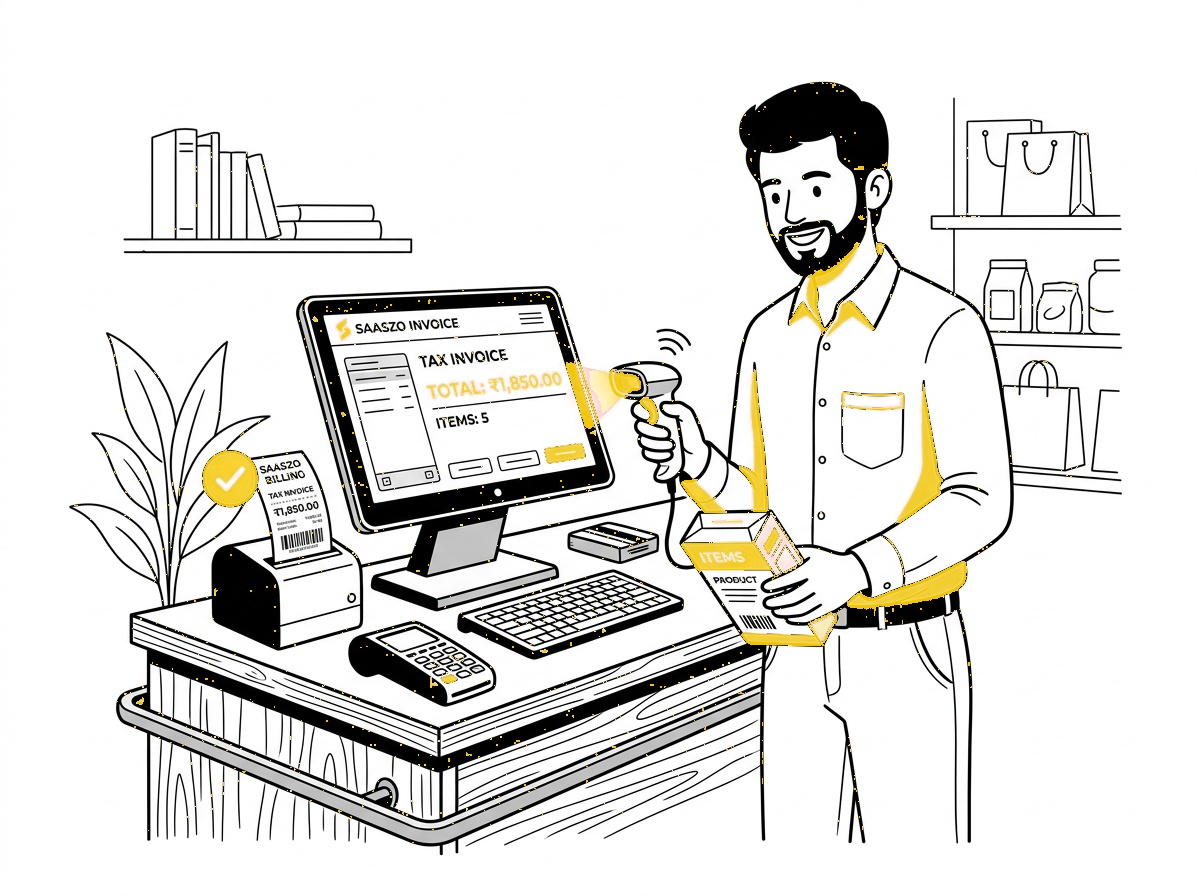
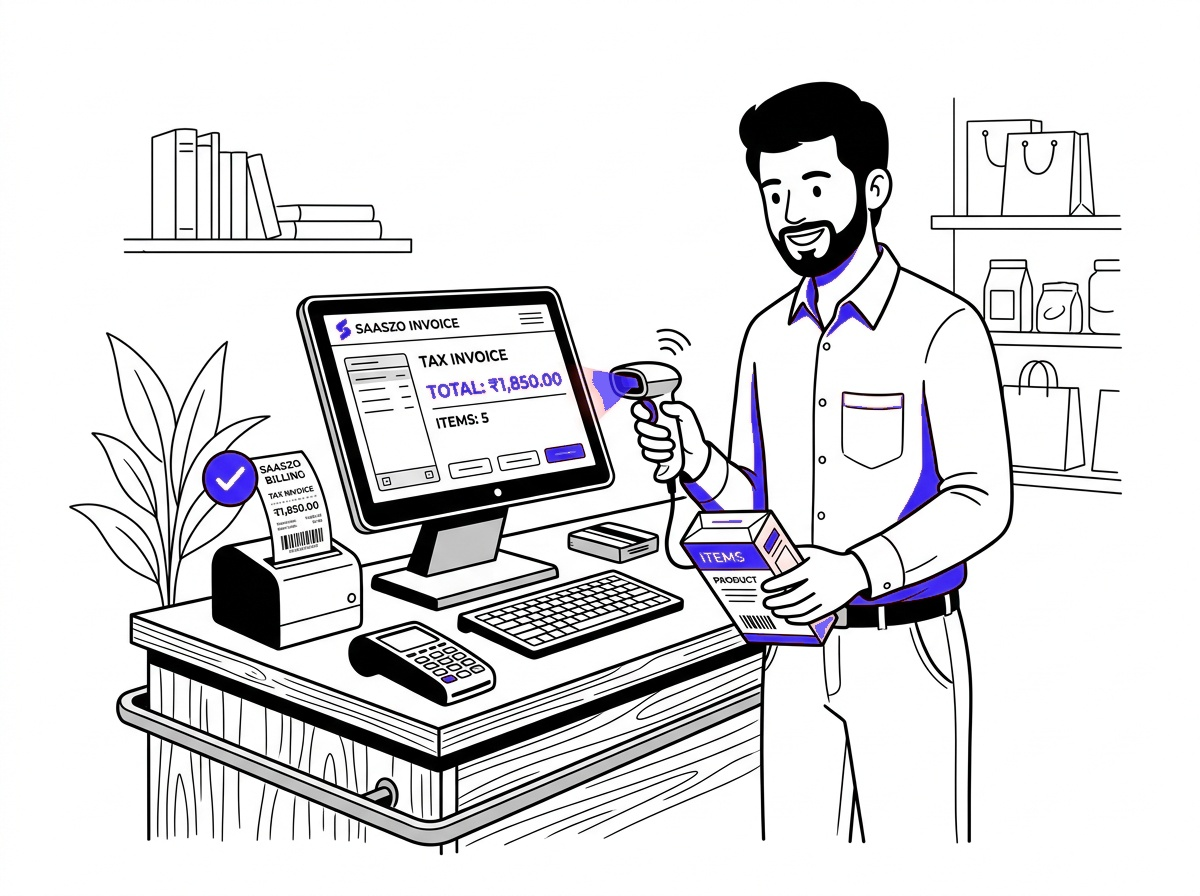
style(home): apply SaaSzo signature electric indigo #6451f1 theme and line art illustrations

diff --git a/apps/home/src/components/BookDemoSection.tsx b/apps/home/src/components/BookDemoSection.tsx
@@ -58,7 +58,7 @@ export function BookDemoSection() {
                 <div className="grid grid-cols-1 sm:grid-cols-2 gap-4">
                   <div>
                     <label className="block text-xs font-bold text-slate-700 mb-1.5">
-                      Name<span className="text-amber-500">*</span>
+                      Name<span className="text-[#6451f1]">*</span>
                     </label>
                     <input
                       type="text"
@@ -66,13 +66,13 @@ export function BookDemoSection() {
                       placeholder="e.g. Rahul Sharma"
                       value={formData.name}
                       onChange={(e) => setFormData({ ...formData, name: e.target.value })}
-                      className="w-full px-4 py-3 rounded-xl bg-white border border-slate-200 text-sm text-slate-900 placeholder:text-slate-400 focus:outline-none focus:ring-2 focus:ring-yellow-400 focus:border-yellow-400 shadow-xs"
+                      className="w-full px-4 py-3 rounded-xl bg-white border border-slate-200 text-sm text-slate-900 placeholder:text-slate-400 focus:outline-none focus:ring-2 focus:ring-[#6451f1] focus:border-[#6451f1] shadow-xs"
                     />
                   </div>
 
                   <div>
                     <label className="block text-xs font-bold text-slate-700 mb-1.5">
-                      Email<span className="text-amber-500">*</span>
+                      Email<span className="text-[#6451f1]">*</span>
                     </label>
                     <input
                       type="email"
@@ -80,7 +80,7 @@ export function BookDemoSection() {
                       placeholder="e.g. rahul@shreeganesh.com"
                       value={formData.email}
                       onChange={(e) => setFormData({ ...formData, email: e.target.value })}
-                      className="w-full px-4 py-3 rounded-xl bg-white border border-slate-200 text-sm text-slate-900 placeholder:text-slate-400 focus:outline-none focus:ring-2 focus:ring-yellow-400 focus:border-yellow-400 shadow-xs"
+                      className="w-full px-4 py-3 rounded-xl bg-white border border-slate-200 text-sm text-slate-900 placeholder:text-slate-400 focus:outline-none focus:ring-2 focus:ring-[#6451f1] focus:border-[#6451f1] shadow-xs"
                     />
                   </div>
                 </div>
@@ -88,7 +88,7 @@ export function BookDemoSection() {
                 <div className="grid grid-cols-1 sm:grid-cols-2 gap-4">
                   <div>
                     <label className="block text-xs font-bold text-slate-700 mb-1.5">
-                      Phone number<span className="text-amber-500">*</span>
+                      Phone number<span className="text-[#6451f1]">*</span>
                     </label>
                     <div className="flex">
                       <span className="inline-flex items-center px-3.5 rounded-l-xl border border-r-0 border-slate-200 bg-slate-100 text-xs font-bold text-slate-600">
@@ -100,14 +100,14 @@ export function BookDemoSection() {
                         placeholder="98765 43210"
                         value={formData.phone}
                         onChange={(e) => setFormData({ ...formData, phone: e.target.value })}
-                        className="w-full px-4 py-3 rounded-r-xl bg-white border border-slate-200 text-sm text-slate-900 placeholder:text-slate-400 focus:outline-none focus:ring-2 focus:ring-yellow-400 focus:border-yellow-400 shadow-xs"
+                        className="w-full px-4 py-3 rounded-r-xl bg-white border border-slate-200 text-sm text-slate-900 placeholder:text-slate-400 focus:outline-none focus:ring-2 focus:ring-[#6451f1] focus:border-[#6451f1] shadow-xs"
                       />
                     </div>
                   </div>
 
                   <div>
                     <label className="block text-xs font-bold text-slate-700 mb-1.5">
-                      City<span className="text-amber-500">*</span>
+                      City<span className="text-[#6451f1]">*</span>
                     </label>
                     <input
                       type="text"
@@ -115,14 +115,14 @@ export function BookDemoSection() {
                       placeholder="Start typing your city"
                       value={formData.city}
                       onChange={(e) => setFormData({ ...formData, city: e.target.value })}
-                      className="w-full px-4 py-3 rounded-xl bg-white border border-slate-200 text-sm text-slate-900 placeholder:text-slate-400 focus:outline-none focus:ring-2 focus:ring-yellow-400 focus:border-yellow-400 shadow-xs"
+                      className="w-full px-4 py-3 rounded-xl bg-white border border-slate-200 text-sm text-slate-900 placeholder:text-slate-400 focus:outline-none focus:ring-2 focus:ring-[#6451f1] focus:border-[#6451f1] shadow-xs"
                     />
                   </div>
                 </div>
 
                 <div>
                   <label className="block text-xs font-bold text-slate-700 mb-1.5">
-                    Business Name<span className="text-amber-500">*</span>
+                    Business Name<span className="text-[#6451f1]">*</span>
                   </label>
                   <input
                     type="text"
@@ -130,14 +130,14 @@ export function BookDemoSection() {
                     placeholder="e.g. Shree Ganesh Supermarket"
                     value={formData.businessName}
                     onChange={(e) => setFormData({ ...formData, businessName: e.target.value })}
-                    className="w-full px-4 py-3 rounded-xl bg-white border border-slate-200 text-sm text-slate-900 placeholder:text-slate-400 focus:outline-none focus:ring-2 focus:ring-yellow-400 focus:border-yellow-400 shadow-xs"
+                    className="w-full px-4 py-3 rounded-xl bg-white border border-slate-200 text-sm text-slate-900 placeholder:text-slate-400 focus:outline-none focus:ring-2 focus:ring-[#6451f1] focus:border-[#6451f1] shadow-xs"
                   />
                 </div>
 
                 {/* Product Interest Pills */}
                 <div>
                   <label className="block text-xs font-bold text-slate-700 mb-2">
-                    Which product are you interested in?<span className="text-amber-500">*</span>
+                    Which product are you interested in?<span className="text-[#6451f1]">*</span>
                   </label>
                   <div className="flex flex-wrap gap-2">
                     {products.map((p) => (
@@ -147,7 +147,7 @@ export function BookDemoSection() {
                         onClick={() => setSelectedProduct(p)}
                         className={`px-4 py-2 rounded-full text-xs font-bold transition-all cursor-pointer ${
                           selectedProduct === p
-                            ? "bg-slate-900 text-white shadow-xs"
+                            ? "bg-[#6451f1] text-white shadow-xs"
                             : "bg-white text-slate-700 hover:bg-slate-200 border border-slate-200"
                         }`}
                       >
@@ -160,9 +160,9 @@ export function BookDemoSection() {
                 <div className="pt-2">
                   <button
                     type="submit"
-                    className="w-full py-4 rounded-xl bg-yellow-400 hover:bg-yellow-300 text-slate-950 font-black text-sm tracking-wide shadow-lg shadow-yellow-400/30 transition-all duration-200 cursor-pointer"
+                    className="w-full py-4 rounded-xl bg-[#6451f1] hover:bg-[#5340e6] text-white font-bold text-sm tracking-wide shadow-lg shadow-indigo-500/25 transition-all duration-200 cursor-pointer"
                   >
-                    Submit
+                    Submit Demo Request
                   </button>
                 </div>
               </form>
@@ -181,7 +181,7 @@ export function BookDemoSection() {
               />
             </div>
             <div className="mt-4 flex items-center gap-2 text-xs font-bold text-slate-600">
-              <Headphones className="w-4 h-4 text-amber-500" />
+              <Headphones className="w-4 h-4 text-[#6451f1]" />
               <span>Dedicated 24/7 Onboarding &amp; Training Support</span>
             </div>
           </div>

diff --git a/apps/home/src/components/MinimalFooter.tsx b/apps/home/src/components/MinimalFooter.tsx
@@ -18,8 +18,8 @@ export function MinimalFooter() {
           {/* Col 1: Brand & Identity */}
           <div className="col-span-2 space-y-4">
             <div className="flex items-center gap-2 font-black text-slate-950 text-xl tracking-tight">
-              <span className="w-3 h-3 rounded-full bg-yellow-400 inline-block" />
-              SAASZO <span className="text-amber-500 font-bold">POS</span>
+              <span className="w-3 h-3 rounded-full bg-[#6451f1] inline-block" />
+              SAASZO <span className="text-[#6451f1] font-bold">POS</span>
             </div>
             <p className="text-slate-500 leading-relaxed max-w-sm text-xs">
               Modern, offline-first GST Invoicing, Point of Sale, and smart inventory management for 1,50,000+ Indian retailers, restaurants, and wholesalers.
@@ -36,11 +36,11 @@ export function MinimalFooter() {
               Product
             </div>
             <ul className="space-y-2.5">
-              <li><a href="#features" className="hover:text-amber-600 transition-colors">Counter POS</a></li>
-              <li><a href="#features" className="hover:text-amber-600 transition-colors">100% Offline SQLite</a></li>
-              <li><a href="#features" className="hover:text-amber-600 transition-colors">Thermal Printing (ESC/POS)</a></li>
-              <li><a href="#features" className="hover:text-amber-600 transition-colors">Barcode Scanning</a></li>
-              <li><a href="#comparison" className="hover:text-amber-600 transition-colors">Feature Comparison</a></li>
+              <li><a href="#features" className="hover:text-[#6451f1] transition-colors">Counter POS</a></li>
+              <li><a href="#features" className="hover:text-[#6451f1] transition-colors">100% Offline SQLite</a></li>
+              <li><a href="#features" className="hover:text-[#6451f1] transition-colors">Thermal Printing (ESC/POS)</a></li>
+              <li><a href="#features" className="hover:text-[#6451f1] transition-colors">Barcode Scanning</a></li>
+              <li><a href="#comparison" className="hover:text-[#6451f1] transition-colors">Feature Comparison</a></li>
             </ul>
           </div>
 
@@ -50,11 +50,11 @@ export function MinimalFooter() {
               Solutions
             </div>
             <ul className="space-y-2.5">
-              <li><a href="#solutions" className="hover:text-amber-600 transition-colors">Retail &amp; Supermarket</a></li>
-              <li><a href="#solutions" className="hover:text-amber-600 transition-colors">Wholesale &amp; Distribution</a></li>
-              <li><a href="#solutions" className="hover:text-amber-600 transition-colors">Pharmacy &amp; Chemist</a></li>
-              <li><a href="#solutions" className="hover:text-amber-600 transition-colors">Electronics &amp; Hardware</a></li>
-              <li><a href="#solutions" className="hover:text-amber-600 transition-colors">Services &amp; Agencies</a></li>
+              <li><a href="#solutions" className="hover:text-[#6451f1] transition-colors">Retail &amp; Supermarket</a></li>
+              <li><a href="#solutions" className="hover:text-[#6451f1] transition-colors">Wholesale &amp; Distribution</a></li>
+              <li><a href="#solutions" className="hover:text-[#6451f1] transition-colors">Pharmacy &amp; Chemist</a></li>
+              <li><a href="#solutions" className="hover:text-[#6451f1] transition-colors">Electronics &amp; Hardware</a></li>
+              <li><a href="#solutions" className="hover:text-[#6451f1] transition-colors">Services &amp; Agencies</a></li>
             </ul>
           </div>
 
@@ -65,21 +65,21 @@ export function MinimalFooter() {
             </div>
             <ul className="space-y-3">
               <li>
-                <a href="tel:+919104369797" className="flex items-center gap-2 text-slate-900 font-bold hover:text-amber-600 transition-colors">
-                  <Phone className="w-3.5 h-3.5 text-amber-500" />
+                <a href="tel:+919104369797" className="flex items-center gap-2 text-slate-900 font-bold hover:text-[#6451f1] transition-colors">
+                  <Phone className="w-3.5 h-3.5 text-[#6451f1]" />
                   <span>+91 91043 69797</span>
                 </a>
               </li>
               <li>
-                <a href="mailto:getposs@saaszo.in" className="flex items-center gap-2 text-slate-600 hover:text-amber-600 transition-colors">
-                  <Mail className="w-3.5 h-3.5 text-amber-500" />
+                <a href="mailto:getposs@saaszo.in" className="flex items-center gap-2 text-slate-600 hover:text-[#6451f1] transition-colors">
+                  <Mail className="w-3.5 h-3.5 text-[#6451f1]" />
                   <span>getposs@saaszo.in</span>
                 </a>
               </li>
               <li className="pt-2">
                 <a
                   href="#demo"
-                  className="inline-block px-4 py-2 rounded-xl bg-yellow-400 text-slate-950 font-black text-xs hover:bg-yellow-300 transition-colors shadow-xs"
+                  className="inline-block px-4 py-2 rounded-xl bg-[#6451f1] text-white font-bold text-xs hover:bg-[#5340e6] transition-colors shadow-xs"
                 >
                   Take a Free Demo
                 </a>

diff --git a/apps/home/src/components/BrandMarquee.tsx b/apps/home/src/components/BrandMarquee.tsx
@@ -25,13 +25,13 @@ export function BrandMarquee() {
   return (
     <section className="py-20 md:py-28 bg-slate-50/60 overflow-hidden border-y border-slate-200/70">
       <div className="max-w-7xl mx-auto px-4 sm:px-6 lg:px-8 text-center">
-        <div className="inline-block text-xs font-black tracking-widest text-amber-500 uppercase mb-3">
+        <div className="inline-block text-xs font-black tracking-widest text-[#6451f1] uppercase mb-3">
           TRUSTED BY THE BEST
         </div>
 
         <h2 className="text-3xl sm:text-5xl font-black text-slate-950 tracking-tight leading-tight">
           Trusted by the biggest names{" "}
-          <span className="text-amber-500 block sm:inline">in the business</span>
+          <span className="text-[#6451f1] block sm:inline">in the business</span>
         </h2>
         <p className="mt-4 text-slate-600 max-w-2xl mx-auto text-base sm:text-lg">
           From single checkout retail shops to multi-outlet enterprise chains processing thousands of bills daily.
@@ -42,13 +42,13 @@ export function BrandMarquee() {
       <div className="mt-14 max-w-6xl mx-auto px-4 relative">
         {/* Center Glowing SaaSzo Badge */}
         <div className="relative flex justify-center mb-8">
-          <div className="relative inline-flex items-center gap-3 px-8 py-4 rounded-full bg-white border-2 border-yellow-400 shadow-2xl shadow-yellow-400/20 z-10">
-            <div className="w-8 h-8 rounded-full bg-yellow-400 flex items-center justify-center text-slate-950 font-black text-sm shadow-md">
+          <div className="relative inline-flex items-center gap-3 px-8 py-4 rounded-full bg-white border-2 border-[#6451f1] shadow-2xl shadow-indigo-500/20 z-10">
+            <div className="w-8 h-8 rounded-full bg-[#6451f1] flex items-center justify-center text-white font-black text-sm shadow-md">
               S
             </div>
             <div className="text-left">
               <div className="text-lg font-black tracking-tight text-slate-950">
-                SAASZO <span className="text-amber-500">POS</span>
+                SAASZO <span className="text-[#6451f1]">POS</span>
               </div>
               <div className="text-[10px] font-bold text-slate-400 uppercase tracking-widest">
                 Core Engine
@@ -62,10 +62,10 @@ export function BrandMarquee() {
           {brandsRow1.map((b) => (
             <div
               key={b.name}
-              className="flex items-center gap-3 px-5 py-3 rounded-full bg-white border border-slate-200 shadow-xs hover:border-yellow-400 hover:shadow-md transition-all duration-200 group cursor-default"
+              className="flex items-center gap-3 px-5 py-3 rounded-full bg-white border border-slate-200 shadow-xs hover:border-[#6451f1] hover:shadow-md transition-all duration-200 group cursor-default"
             >
-              <div className="w-2.5 h-2.5 rounded-full bg-yellow-400 group-hover:scale-125 transition-transform" />
-              <div className="text-sm font-bold text-slate-900 group-hover:text-amber-600 transition-colors">
+              <div className="w-2.5 h-2.5 rounded-full bg-[#6451f1] group-hover:scale-125 transition-transform" />
+              <div className="text-sm font-bold text-slate-900 group-hover:text-[#6451f1] transition-colors">
                 {b.name}
               </div>
               <span className="text-slate-300 font-light">|</span>
@@ -82,10 +82,10 @@ export function BrandMarquee() {
           {brandsRow2.map((b) => (
             <div
               key={b.name}
-              className="flex items-center gap-3 px-5 py-3 rounded-full bg-white border border-slate-200 shadow-xs hover:border-yellow-400 hover:shadow-md transition-all duration-200 group cursor-default"
+              className="flex items-center gap-3 px-5 py-3 rounded-full bg-white border border-slate-200 shadow-xs hover:border-[#6451f1] hover:shadow-md transition-all duration-200 group cursor-default"
             >
               <div className="w-2.5 h-2.5 rounded-full bg-emerald-500 group-hover:scale-125 transition-transform" />
-              <div className="text-sm font-bold text-slate-900 group-hover:text-amber-600 transition-colors">
+              <div className="text-sm font-bold text-slate-900 group-hover:text-[#6451f1] transition-colors">
                 {b.name}
               </div>
               <span className="text-slate-300 font-light">|</span>

diff --git a/apps/home/src/components/TrustAtScale.tsx b/apps/home/src/components/TrustAtScale.tsx
@@ -11,13 +11,13 @@ export function TrustAtScale() {
         <div className="grid grid-cols-1 lg:grid-cols-12 gap-12 items-center">
           {/* Left Column: Typography & Narrative */}
           <div className="lg:col-span-6 space-y-6">
-            <div className="inline-block text-xs font-black tracking-widest text-amber-500 uppercase">
+            <div className="inline-block text-xs font-black tracking-widest text-[#6451f1] uppercase">
               TRUST AT SCALE
             </div>
 
             <h2 className="text-3xl sm:text-5xl lg:text-6xl font-black text-slate-950 tracking-tight leading-[1.15]">
               Trust earned across{" "}
-              <span className="text-amber-500">1,50,000+ businesses</span>
+              <span className="text-[#6451f1]">1,50,000+ businesses</span>
             </h2>
 
             <p className="text-base sm:text-xl text-slate-600 font-normal leading-relaxed">
@@ -27,8 +27,8 @@ export function TrustAtScale() {
             {/* Trust Pillars */}
             <div className="grid grid-cols-1 sm:grid-cols-2 gap-4 pt-4">
               <div className="flex items-start gap-3 p-4 rounded-2xl bg-slate-50 border border-slate-200/80">
-                <div className="p-2 rounded-xl bg-yellow-100 text-slate-900">
-                  <ShieldCheck className="w-5 h-5 text-amber-500" />
+                <div className="p-2 rounded-xl bg-indigo-50 text-[#6451f1]">
+                  <ShieldCheck className="w-5 h-5 text-[#6451f1]" />
                 </div>
                 <div>
                   <div className="text-sm font-bold text-slate-900">99.99% Offline Uptime</div>
@@ -37,8 +37,8 @@ export function TrustAtScale() {
               </div>
 
               <div className="flex items-start gap-3 p-4 rounded-2xl bg-slate-50 border border-slate-200/80">
-                <div className="p-2 rounded-xl bg-yellow-100 text-slate-900">
-                  <TrendingUp className="w-5 h-5 text-amber-500" />
+                <div className="p-2 rounded-xl bg-indigo-50 text-[#6451f1]">
+                  <TrendingUp className="w-5 h-5 text-[#6451f1]" />
                 </div>
                 <div>
                   <div className="text-sm font-bold text-slate-900">₹500+ Cr Invoiced</div>
@@ -59,8 +59,8 @@ export function TrustAtScale() {
                 className="object-contain p-2 transition-transform duration-500 group-hover:scale-105"
               />
               {/* Floating Verified Pill */}
-              <div className="absolute top-4 right-4 bg-yellow-400 text-slate-950 px-3.5 py-1.5 rounded-full border border-yellow-300 shadow-md flex items-center gap-1.5 text-xs font-black">
-                <CheckCircle2 className="w-4 h-4 text-slate-950" />
+              <div className="absolute top-4 right-4 bg-[#6451f1] text-white px-3.5 py-1.5 rounded-full border border-indigo-400 shadow-md flex items-center gap-1.5 text-xs font-black">
+                <CheckCircle2 className="w-4 h-4 text-white" />
                 <span>Verified Retail Partner</span>
               </div>
             </div>

diff --git a/apps/home/src/components/CustomerStories.tsx b/apps/home/src/components/CustomerStories.tsx
@@ -55,7 +55,7 @@ export function CustomerStories() {
         <div className="text-center max-w-3xl mx-auto">
           <h2 className="text-3xl sm:text-5xl font-black text-slate-950 tracking-tight leading-tight">
             Businesses that switched{" "}
-            <span className="text-amber-500 block sm:inline">never looked back</span>
+            <span className="text-[#6451f1] block sm:inline">never looked back</span>
           </h2>
           <p className="mt-4 text-base sm:text-lg text-slate-600">
             Real stories from business owners who transformed their counter billing and cash flow with SaaSzo.
@@ -74,8 +74,8 @@ export function CustomerStories() {
                 {/* Top Video Controls Bar */}
                 <div className="flex items-center justify-between z-10">
                   <div className="flex items-center gap-1.5">
-                    <div className="w-2 h-2 rounded-full bg-yellow-400 animate-pulse" />
-                    <span className="text-[10px] font-bold uppercase tracking-wider text-amber-300">
+                    <div className="w-2 h-2 rounded-full bg-[#6451f1] animate-pulse" />
+                    <span className="text-[10px] font-bold uppercase tracking-wider text-indigo-300">
                       Story #{idx + 1}
                     </span>
                   </div>
@@ -89,7 +89,7 @@ export function CustomerStories() {
                 <div className="my-auto flex flex-col items-center justify-center z-10">
                   <button
                     onClick={() => setPlayingIndex(isPlaying ? null : idx)}
-                    className="w-14 h-14 rounded-full bg-white/20 backdrop-blur-md border border-white/40 flex items-center justify-center text-white shadow-2xl group-hover:scale-110 group-hover:bg-yellow-400 group-hover:text-slate-950 group-hover:border-yellow-400 transition-all duration-300 cursor-pointer"
+                    className="w-14 h-14 rounded-full bg-white/20 backdrop-blur-md border border-white/40 flex items-center justify-center text-white shadow-2xl group-hover:scale-110 group-hover:bg-[#6451f1] group-hover:text-white group-hover:border-[#6451f1] transition-all duration-300 cursor-pointer"
                   >
                     {isPlaying ? (
                       <Pause className="w-6 h-6 fill-current" />
@@ -107,7 +107,7 @@ export function CustomerStories() {
                   <div className="text-xs font-bold text-white line-clamp-2 leading-snug">
                     {s.title}
                   </div>
-                  <div className="text-[10px] text-amber-300 mt-1 font-semibold">
+                  <div className="text-[10px] text-indigo-300 mt-1 font-semibold">
                     {s.subtitle}
                   </div>
                   <p className="text-[10px] text-slate-300 mt-2 line-clamp-2 italic">

diff --git a/apps/home/src/components/AppShowcaseHero.tsx b/apps/home/src/components/AppShowcaseHero.tsx
@@ -177,7 +177,7 @@ export function AppShowcaseHero() {
                     onClick={() => setActiveIllustration("lineart-counter")}
                     className={`px-2.5 py-1 rounded-lg transition-all cursor-pointer ${
                       activeIllustration === "lineart-counter"
-                        ? "bg-yellow-400 text-slate-950 shadow-xs font-black"
+                        ? "bg-[#6451f1] text-white shadow-xs font-bold"
                         : "text-slate-600 hover:text-slate-900"
                     }`}
                   >

diff --git a/apps/home/src/app/page.tsx b/apps/home/src/app/page.tsx
@@ -75,7 +75,7 @@ const JSON_LD_SCHEMA = {
 
 export default function Home() {
   return (
-    <div className="min-h-screen bg-white text-slate-900 selection:bg-yellow-400 selection:text-slate-950 antialiased">
+    <div className="min-h-screen bg-white text-slate-900 selection:bg-[#6451f1] selection:text-white antialiased">
       {/* Structured SEO Schema */}
       <script
         type="application/ld+json"
